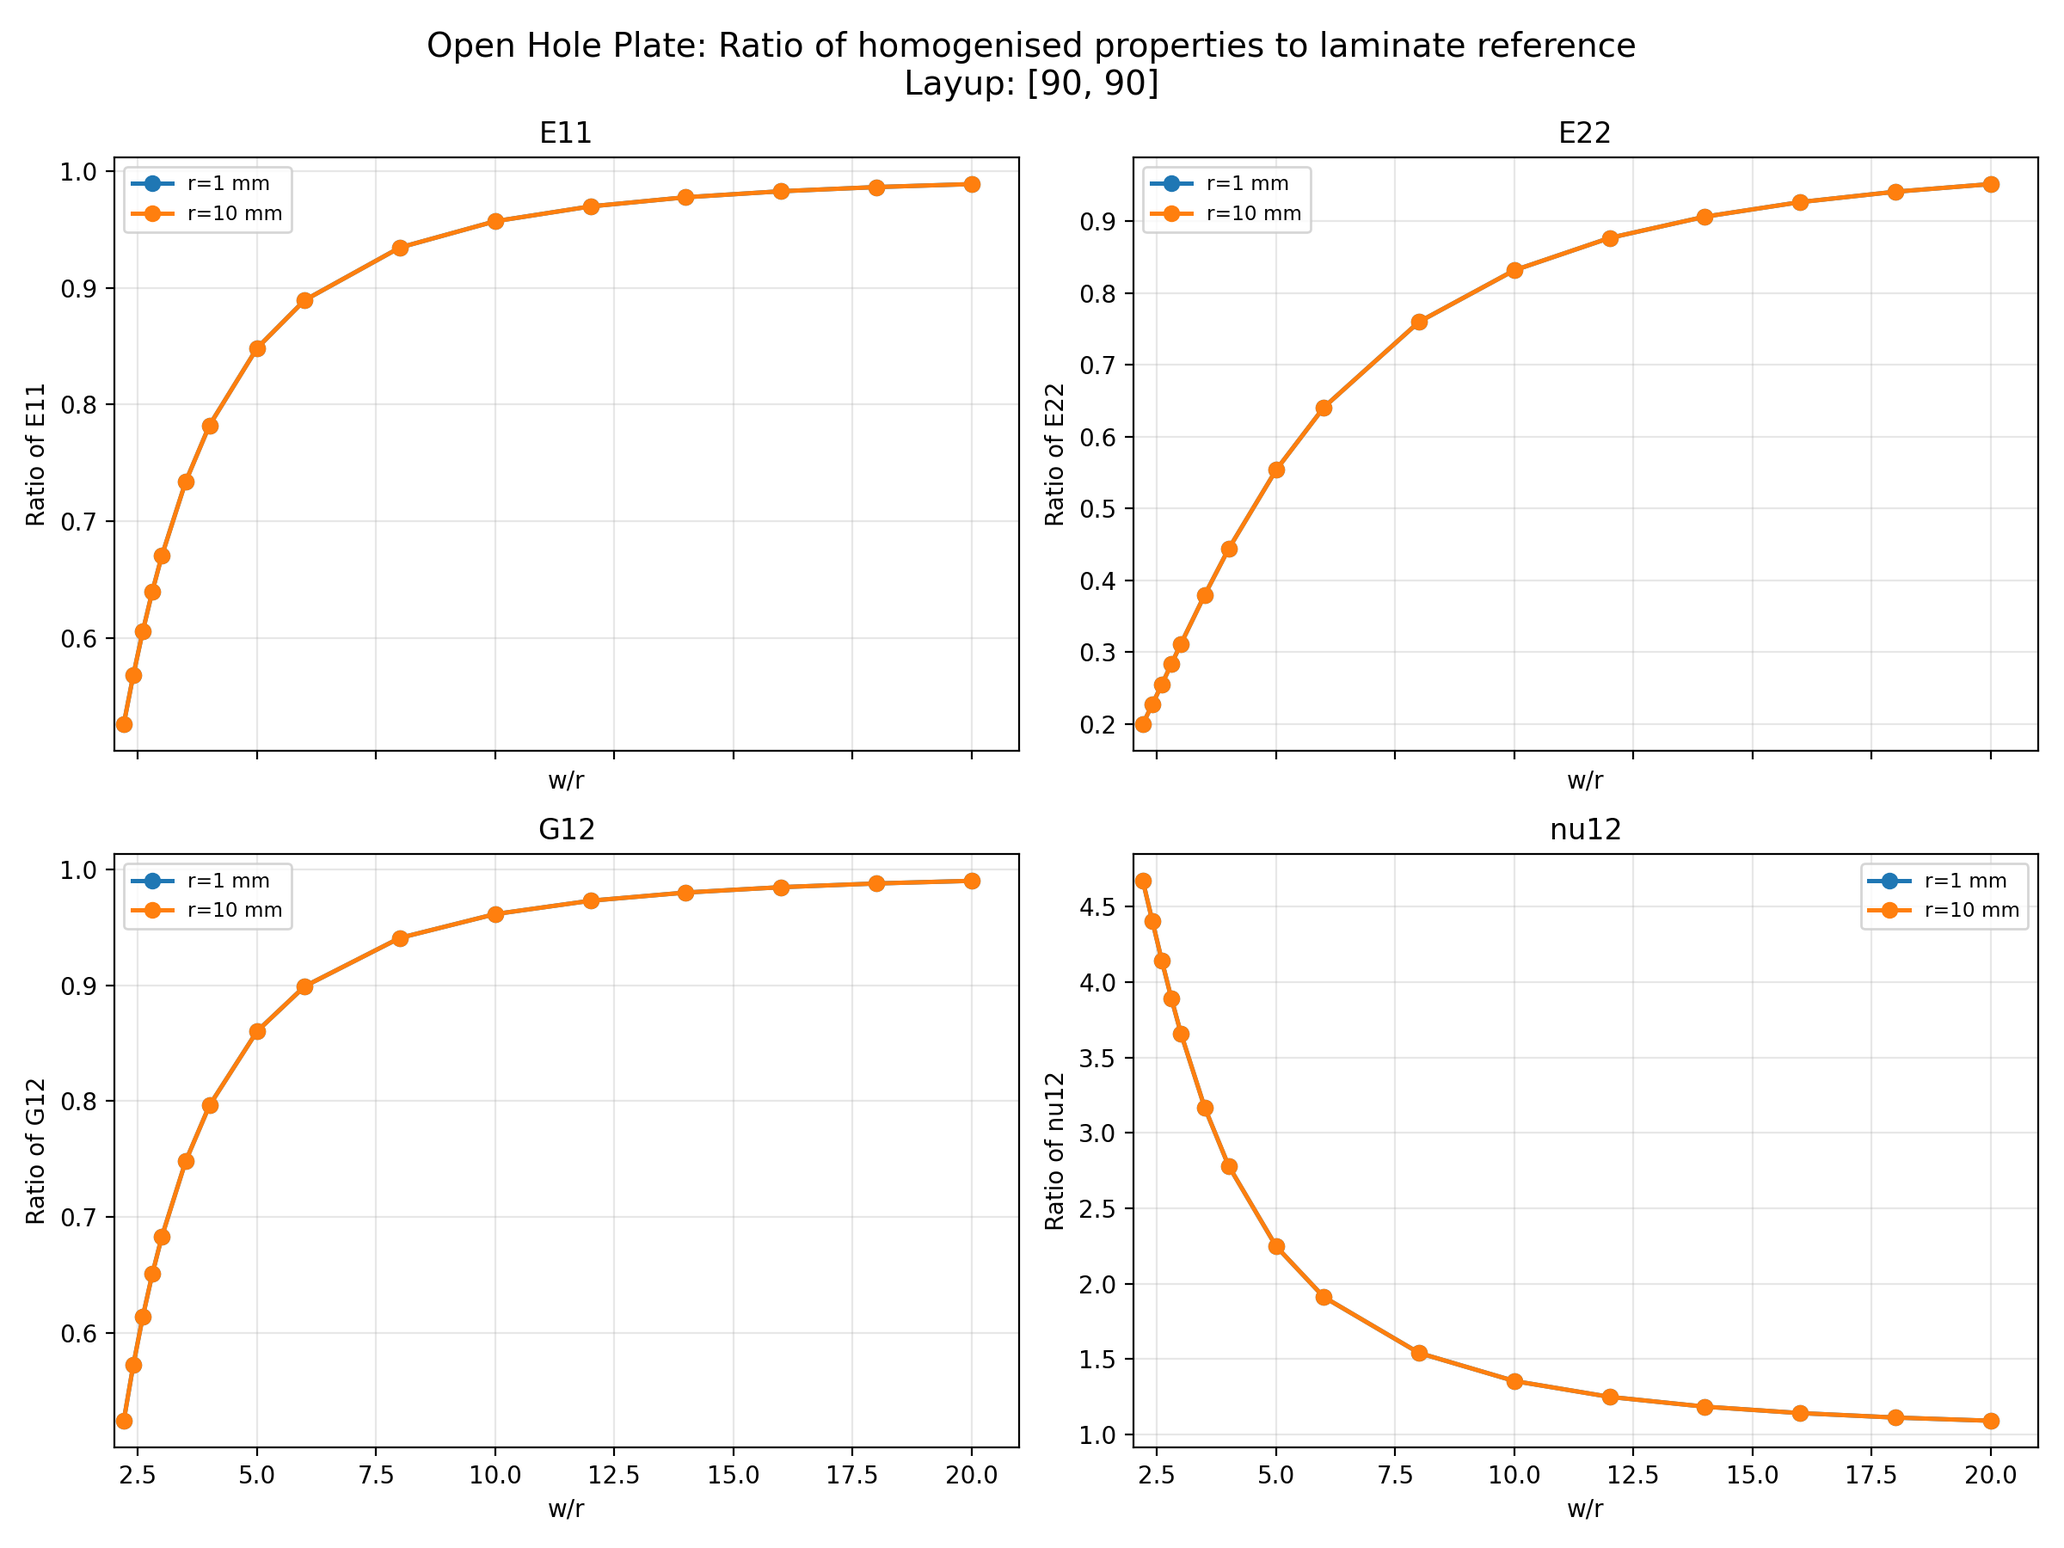
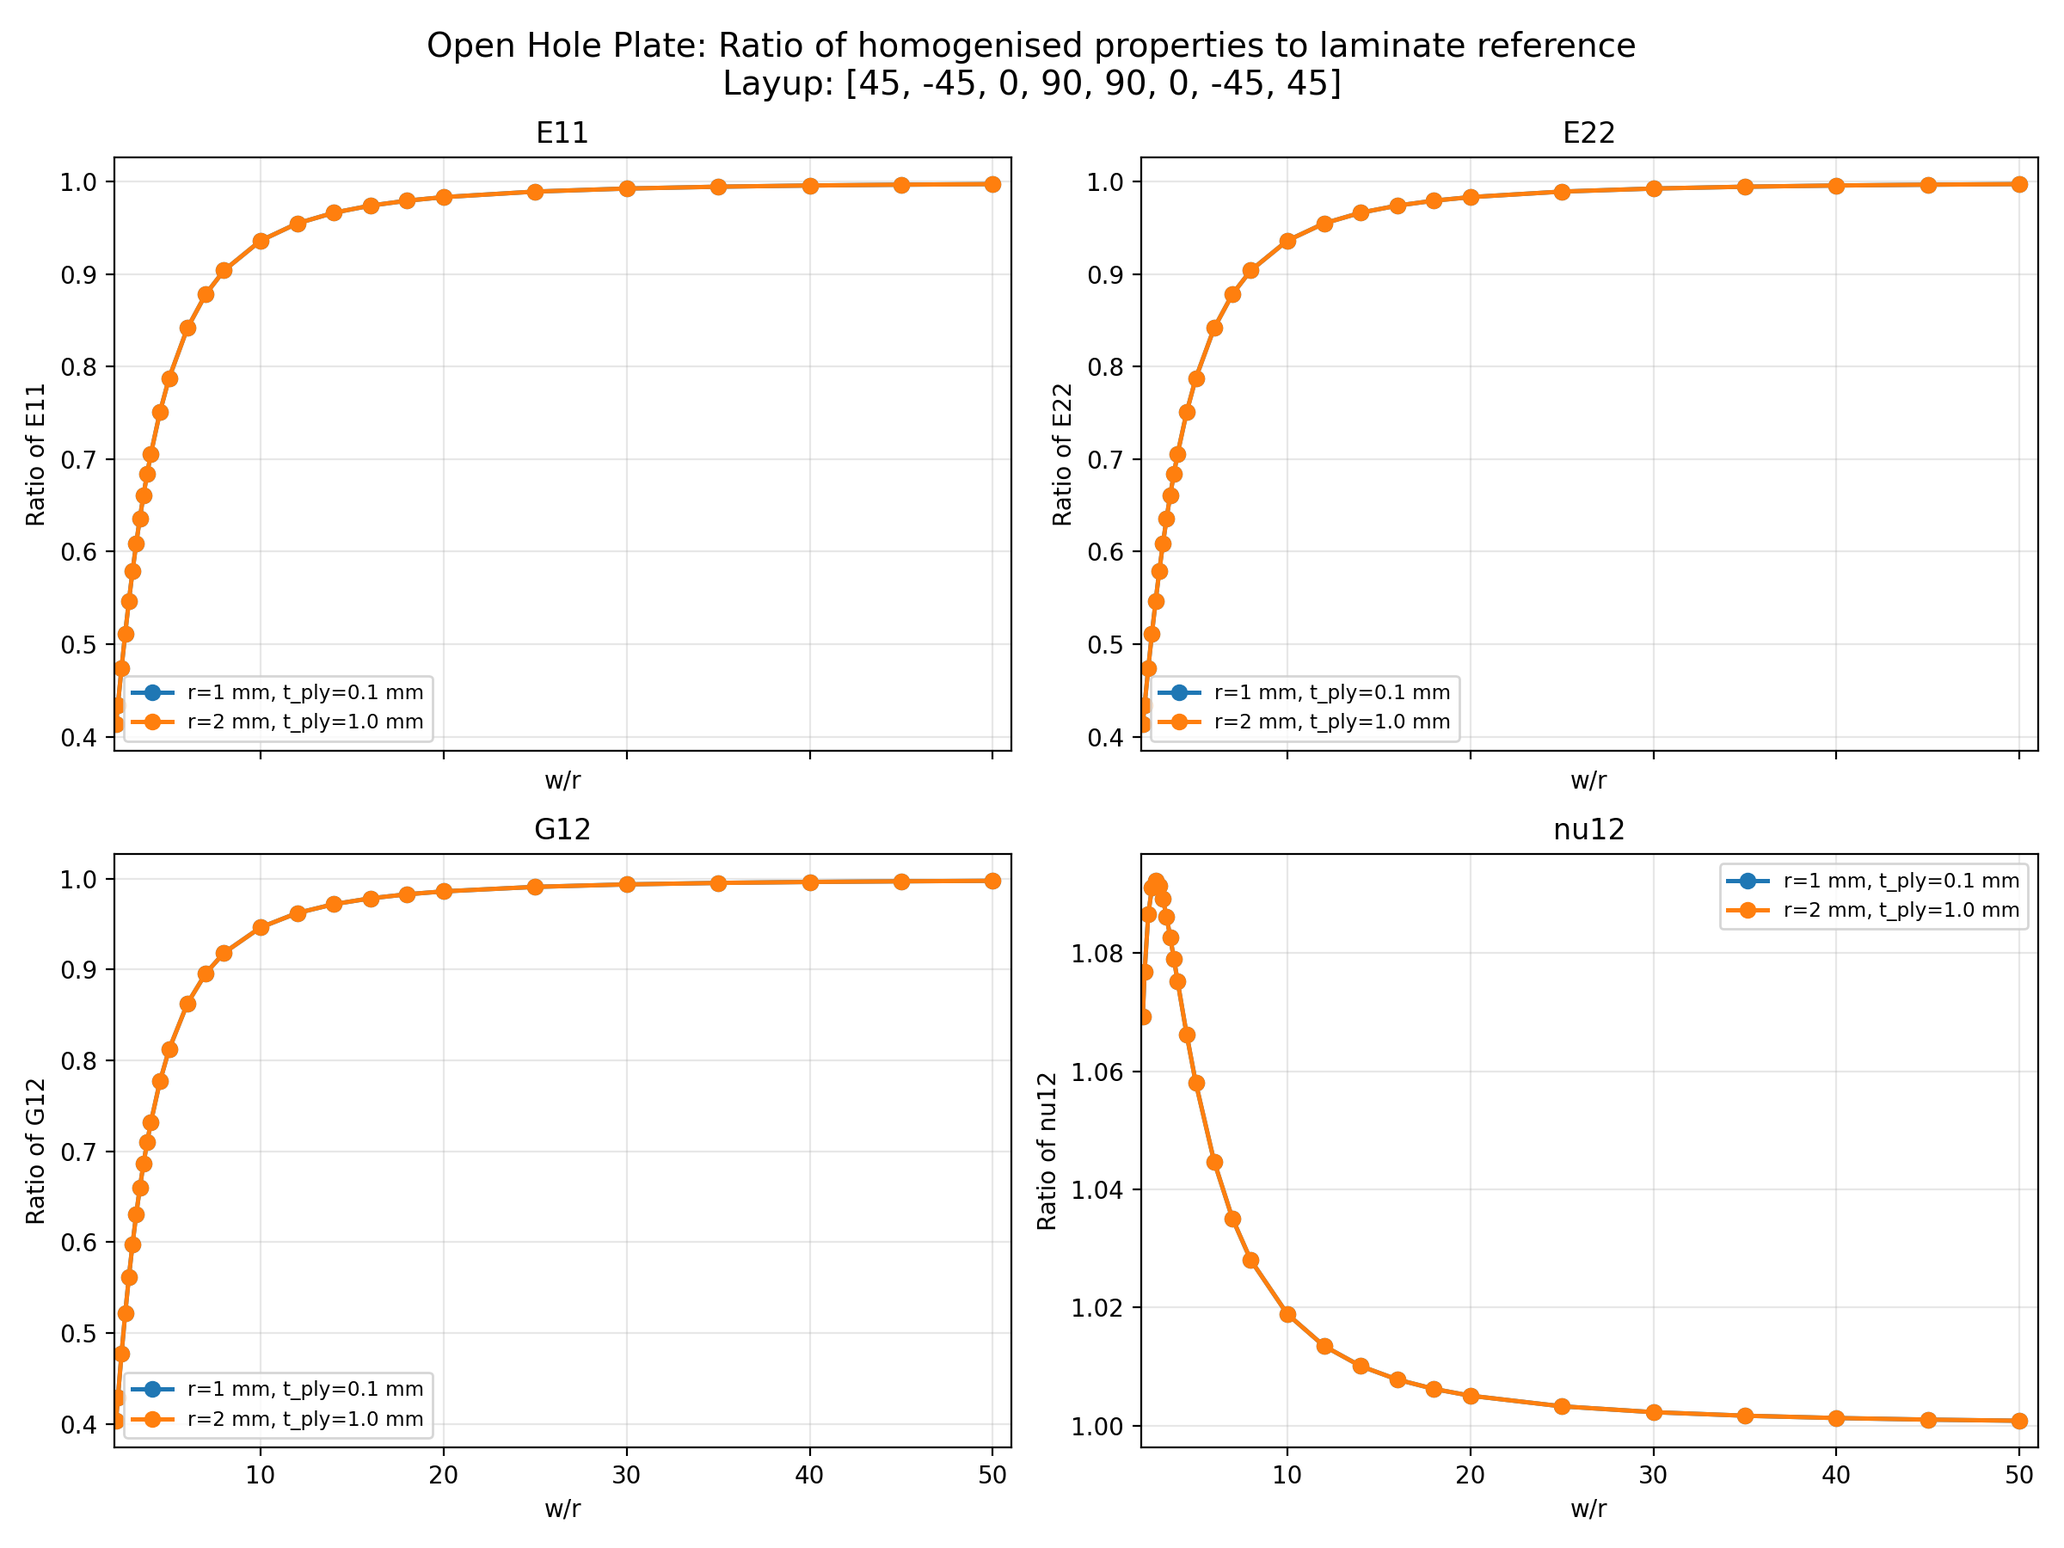
update example

diff --git a/example/4-effective-stiffness/example_effective_stiffness.py b/example/4-effective-stiffness/example_effective_stiffness.py
@@ -96,6 +96,10 @@ def calculate_effective_properties(laminate: Laminate,
         'A_eff': properties_eff['A_eff'],
         'S_lam': S_lam,
         'S_eff': properties_eff['S_eff'],
+        'disp_right_list': properties_eff['disp_right_list'],
+        'disp_left_list': properties_eff['disp_left_list'],
+        'disp_top_list': properties_eff['disp_top_list'],
+        'disp_bottom_list': properties_eff['disp_bottom_list'],
     }
     
     for key in ['E11', 'E22', 'G12', 'nu12']:
@@ -153,26 +157,30 @@ def print_comparison(results: Dict[str, Any]) -> None:
 def main() -> None:
     
     # Example laminate (quasi-isotropic).
+    layup = [0]
+    layup = [90]
+    layup = [45, -45, 0, 90, 90, 0, -45, 45]
     layup = [45, -45, 0, -45, 45, 0, 0, 90, 90, 0, 0, 45, -45, 0, -45, 45]
-    ply_thickness_mm = 0.125
-
-    ply = Ply(material=IM7_8551_7, thickness=ply_thickness_mm)
-    laminate = Laminate(stacking=layup, plies=ply)
 
     # Plot ratio curves of effective properties vs. laminate reference.
     #   {prop}_eff / {prop}_lam, where prop in [E11, E22, G12, nu12].
     properties = ["E11", "E22", "G12", "nu12"]
 
-    r_list = [1, 10]  # mm
-    w_r_ratios = [2.2, 2.4, 2.6, 2.8, 3.0, 3.5, 4, 5] + [i for i in range(6, 21, 2)]  # w/r ratio
+    case_list = [(1, 0.1), (2, 1.0)]  # (r_mm, ply_thickness_mm)
+    w_r_ratios = [2.1, 2.2, 2.4, 2.6, 2.8, 3.0, 3.2, 3.4, 3.6, 3.8, 4.0, 4.5,
+                  5, 6, 7, 8, 10, 12, 14, 16, 18, 20, 25, 30, 35, 40, 45, 50]  # w/r ratio
 
-    # ratios[prop][i_r, i_wr] = prop_eff / prop_lam
+    # ratios[prop][i_curve, i_wr] = prop_eff / prop_lam
     ratios: Dict[str, np.ndarray] = {
-        prop: np.zeros((len(r_list), len(w_r_ratios)), dtype=float)
+        prop: np.zeros((len(case_list), len(w_r_ratios)), dtype=float)
         for prop in properties
     }
 
-    for i_r, r_mm in enumerate(r_list):
+    for i_curve, (r_mm, ply_thickness_mm) in enumerate(case_list):
+        
+        ply = Ply(material=IM7_8551_7, thickness=ply_thickness_mm)
+        laminate = Laminate(stacking=layup, plies=ply)
+        
         for i_wr, w_r_ratio in enumerate(w_r_ratios):
             w_plate_mm = float(w_r_ratio) * float(r_mm)
 
@@ -189,26 +197,26 @@ def main() -> None:
             for prop in properties:
                 lam_val = float(results[f"{prop}_lam"])
                 eff_val = float(results[f"{prop}_eff"])
-                ratios[prop][i_r, i_wr] = eff_val / (lam_val + 1e-30)  # avoid division-by-zero
+                ratios[prop][i_curve, i_wr] = eff_val / (lam_val + 1e-30)  # avoid division-by-zero
 
     # --- Plot (2x2 subplots) ---
     fig, axes = plt.subplots(2, 2, figsize=(12, 9), sharex=True)
     axes_flat = axes.ravel()
 
     for ax, prop in zip(axes_flat, properties):
-        for i_r, r_mm in enumerate(r_list):
+        for i_curve, (r_mm, ply_thickness_mm) in enumerate(case_list):
             ax.plot(
                 w_r_ratios,
-                ratios[prop][i_r, :],
+                ratios[prop][i_curve, :],
                 marker="o",
                 linewidth=1.8,
-                label=f"r={r_mm} mm",
+                label=f"r={r_mm} mm, t_ply={ply_thickness_mm} mm",
             )
 
         ax.set_title(prop)
         ax.set_xlabel("w/r")
         ax.set_ylabel(f"Ratio of {prop}")
-        ax.set_xlim(2, 21)
+        ax.set_xlim(2, 51)
         ax.grid(True, alpha=0.3)
         ax.legend(fontsize="small")
 
@@ -221,9 +229,86 @@ def main() -> None:
 
     out_path = os.path.join(path, "images", "open_hole_homogenisation.png")
     fig.savefig(out_path, dpi=200)
-    print(f"Saved plot: {out_path}")
+    
+    # Plot ratio curves of displacements at the boundaries vs. laminate reference.
+    
+    w_r_ratios = [2.1, 2.5, 3, 5, 10]  # w/r ratio
+    r_mm = 1.0
+    colors = ['red', 'orange', 'green', 'blue', 'purple']
+    n_points_boundary = 101
+    magnitude_factor = 1e4
+    
+    ply = Ply(material=IM7_8551_7, thickness=1.0)
+    laminate = Laminate(stacking=layup, plies=ply)
+    
+    fig, axes = plt.subplots(1, 3, figsize=(12, 6), sharex=True)
+    axes_flat = axes.ravel()
 
+    for i_wr, w_r_ratio in enumerate(w_r_ratios):
+        
+        w_plate_mm = float(w_r_ratio) * float(r_mm)
+        coords = w_plate_mm*0.5*np.linspace(-1, 1, n_points_boundary)
 
+        results = calculate_effective_properties(
+            laminate=laminate,
+            lx_plate_mm=w_plate_mm,
+            ly_plate_mm=w_plate_mm,
+            hole_radius_mm=float(r_mm),
+            n_points_boundary=n_points_boundary,
+        )
+        
+        # Displacements (u,v) at the boundaries (right, left, top, bottom)
+        # for 3 unit stress states [sigma_xx_inf, sigma_yy_inf, tau_xy_inf].
+        disp_right_list = results['disp_right_list'] # [3][n_points_boundary, 2]
+        disp_left_list = results['disp_left_list']
+        disp_top_list = results['disp_top_list']
+        disp_bottom_list = results['disp_bottom_list']
+    
+        # Plot displacements: each stress state in one subplot.
+        for i_stress, stress_state in enumerate([r'$\sigma_{xx}^{\infty}$', r'$\sigma_{yy}^{\infty}$', r'$\tau_{xy}^{\infty}$']):
+            
+            if i_wr == 0:
+                axes_flat[i_stress].add_patch(plt.Circle((0, 0), r_mm, color='black', linewidth=1.8, fill=False))
+            
+            axes_flat[i_stress].plot(-0.5*w_plate_mm+disp_left_list[i_stress][:, 0]*magnitude_factor,
+                                    coords+disp_left_list[i_stress][:, 1]*magnitude_factor,
+                                    color=colors[i_wr], linewidth=1.0)
+
+            axes_flat[i_stress].plot( 0.5*w_plate_mm+disp_right_list[i_stress][:, 0]*magnitude_factor,
+                                    coords+disp_right_list[i_stress][:, 1]*magnitude_factor,
+                                    color=colors[i_wr], linewidth=1.0)
+
+            axes_flat[i_stress].plot(coords+disp_bottom_list[i_stress][:, 0]*magnitude_factor, 
+                                    -0.5*w_plate_mm+disp_bottom_list[i_stress][:, 1]*magnitude_factor, 
+                                    color=colors[i_wr], linewidth=1.0)
+
+            axes_flat[i_stress].plot(coords+disp_top_list[i_stress][:, 0]*magnitude_factor,
+                                    0.5*w_plate_mm+disp_top_list[i_stress][:, 1]*magnitude_factor, 
+                                    color=colors[i_wr], linewidth=1.0,
+                                    label=f"w/r={w_r_ratio:.1f}")
+            
+            if i_wr == len(w_r_ratios) - 1:
+                
+                axes_flat[i_stress].set_xlabel('x')
+                axes_flat[i_stress].set_ylabel('y')
+                axes_flat[i_stress].set_title(stress_state)
+                axes_flat[i_stress].grid(True, alpha=0.3)
+                
+                axes_flat[i_stress].set_xlim(-0.8*w_plate_mm, 0.8*w_plate_mm)
+                axes_flat[i_stress].set_ylim(-0.8*w_plate_mm, 0.8*w_plate_mm)
+                axes_flat[i_stress].axis('equal')
+                axes_flat[i_stress].legend(fontsize="small")
+
+    fig.suptitle(
+        f"Open Hole Plate: Displacements at the boundaries\n"+ \
+        f"Layup: {layup}\n"+ \
+        f"Magnify factor: {magnitude_factor:.1e}",
+        fontsize=14,
+    )
+    fig.tight_layout(rect=[0, 0, 1, 1])
+
+    out_path = os.path.join(path, "images", "open_hole_displacements.png")
+    fig.savefig(out_path, dpi=200)
 
 
 if __name__ == "__main__":

diff --git a/src/lamkit/lekhnitskii/homogenisation.py b/src/lamkit/lekhnitskii/homogenisation.py
@@ -4,13 +4,13 @@ Homogenisation of a plate with a circular hole.
 
 
 import numpy as np
-from typing import Dict, Type, Any
+from typing import Dict, Type, Any, List
 from lamkit.lekhnitskii.hole import Hole
 from lamkit.lekhnitskii.unloaded_hole import UnloadedHole
 
 
 def compute_effective_strains(solution: Hole,
-                L: float, H: float, n_points_boundary: int = 301) -> np.ndarray:
+                L: float, H: float, n_points_boundary: int = 301) -> Dict[str, np.ndarray]:
     """
     Compute effective strains from boundary displacements.
     The plate is treated as a square domain:
@@ -30,8 +30,14 @@ def compute_effective_strains(solution: Hole,
 
     Returns
     -------
-    effective_strains: np.ndarray, shape (3,)
-        [epsilon_x, epsilon_y, gamma_xy] (engineering gamma_xy).
+    results: Dict[str, np.ndarray]
+        The results of the effective strains.
+        - 'effective_strains': [epsilon_x, epsilon_y, gamma_xy] (engineering gamma_xy).
+        - 'displacement_right': np.ndarray, shape (n_points_boundary, 2)
+        - 'displacement_left': np.ndarray, shape (n_points_boundary, 2)
+        - 'displacement_top': np.ndarray, shape (n_points_boundary, 2)
+        - 'displacement_bottom': np.ndarray, shape (n_points_boundary, 2)
+        
     """
     if n_points_boundary < 3:
         raise ValueError("n_points_boundary must be >= 3")
@@ -74,21 +80,23 @@ def compute_effective_strains(solution: Hole,
 
     # --- gamma_xy_bar = (1/(L*H)) [ ∫ (u(x,H)-u(x,0)) dx + ∫ (v(L,y)-v(0,y)) dy ] ---
     # Our coordinates: H => y_top, 0 => y_bottom; L => x_right, 0 => x_left.
-    disp_u_t = np.asarray(solution.displacement(x, y_t), dtype=float)
-    disp_u_b = np.asarray(solution.displacement(x, y_b), dtype=float)
-    u_t = disp_u_t[:, 0]
-    u_b = disp_u_b[:, 0]
+    u_t = disp_t[:, 0]
+    u_b = disp_b[:, 0]
     term1 = float(np.trapz(u_t - u_b, x))
 
-    disp_v_r = np.asarray(solution.displacement(x_r, y), dtype=float)
-    disp_v_l = np.asarray(solution.displacement(x_l, y), dtype=float)
-    v_r = disp_v_r[:, 1]
-    v_l = disp_v_l[:, 1]
+    v_r = disp_r[:, 1]
+    v_l = disp_l[:, 1]
     term2 = float(np.trapz(v_r - v_l, y))
 
     gamma_xy_bar = (term1 + term2) / (L * H)
 
-    return np.array([epsilon_xx_bar, epsilon_yy_bar, gamma_xy_bar], dtype=float)
+    return {
+        'effective_strains': np.array([epsilon_xx_bar, epsilon_yy_bar, gamma_xy_bar], dtype=float),
+        'displacement_right': disp_r,
+        'displacement_left': disp_l,
+        'displacement_top': disp_t,
+        'displacement_bottom': disp_b,
+    }
 
 
 def compute_permutation_invariants(E11: float, E22: float,
@@ -160,12 +168,18 @@ def compute_homogenised_properties(HoleType: Type[Hole],
     Returns
     -------
     homogenised_properties: Dict[str, Any]
-        The homogenised properties of the plate.
-        Keys: 'A_eff', 'S_eff', 'E11_eff', 'E22_eff', 'G12_eff', 'nu12_eff', 'nu21_eff'.
+        The homogenised properties of the plate, and displacements at the boundaries.
+        - 'A_eff', 'S_eff'
+        - 'E11_eff', 'E22_eff', 'G12_eff', 'nu12_eff', 'nu21_eff'
+        - 'disp_right_list', 'disp_left_list', 'disp_top_list', 'disp_bottom_list'
     '''
 
     unit_stress_vectors = np.eye(3)
-    eps_cols: list[np.ndarray] = []
+    eps_cols: List[np.ndarray] = []
+    disp_right_list: List[np.ndarray] = []
+    disp_left_list: List[np.ndarray] = []
+    disp_top_list: List[np.ndarray] = []
+    disp_bottom_list: List[np.ndarray] = []
     
     for (sx_inf, sy_inf, txy_inf) in unit_stress_vectors:
 
@@ -180,9 +194,13 @@ def compute_homogenised_properties(HoleType: Type[Hole],
         else:
             raise ValueError(f"HoleType {HoleType} not supported")
 
-        eps_eff = compute_effective_strains(
+        results_eff = compute_effective_strains(
             solution=solution, L=L, H=H, n_points_boundary=n_points_boundary)
-        eps_cols.append(eps_eff)
+        eps_cols.append(results_eff['effective_strains'])
+        disp_right_list.append(results_eff['displacement_right'])
+        disp_left_list.append(results_eff['displacement_left'])
+        disp_top_list.append(results_eff['displacement_top'])
+        disp_bottom_list.append(results_eff['displacement_bottom'])
 
     # epsilon = S_eff @ sigma_inf, with sigma_inf ordering [sx, sy, txy]
     # No further scaling by thickness is needed for `S_eff`,
@@ -210,6 +228,10 @@ def compute_homogenised_properties(HoleType: Type[Hole],
         'G12_eff': G12_eff,
         'nu12_eff': nu12_eff,
         'nu21_eff': nu21_eff,
+        'disp_right_list': disp_right_list,
+        'disp_left_list': disp_left_list,
+        'disp_top_list': disp_top_list,
+        'disp_bottom_list': disp_bottom_list,
     }
 
     return results

diff --git a/example/6-laminate-optimization-task/example_laminate_opt_function.py b/example/6-laminate-optimization-task/example_laminate_opt_function.py
@@ -141,10 +141,14 @@ def evaluate_laminate_design(
     eigvals, _ = buckling.buckling_analysis(num_eigvalues=5)
     lambda_cr = float(np.min(eigvals))
 
-    objective = float(total_thickness)
+    objective = float(total_thickness) * (1 - np.pi * hole_radius_mm**2 / (w_mm * h_mm))
     g_disp = max_abs_u - delta_x_limit_mm
     g_fi = fi_max - fi_limit
     g_buckle = lambda_min_limit - lambda_cr
+
+    int_layup = [int(angle) for angle in layup]
+    n_0 = int_layup.count(0)
+    n_90 = int_layup.count(90)
 
     t1 = time.time()
 
@@ -153,6 +157,15 @@ def evaluate_laminate_design(
         "objective": objective,
         "total_thickness": total_thickness,
         "n_ply": n_ply,
+        "n_0": n_0,
+        "n_90": n_90,
+        "xiA": np.round(laminate.xiA, 6).tolist(),
+        "xiB": np.round(laminate.xiB, 6).tolist(),
+        "xiD": np.round(laminate.xiD, 6).tolist(),
+        "E11_eff": properties_eff['E11_eff'],
+        "E22_eff": properties_eff['E22_eff'],
+        "G12_eff": properties_eff['G12_eff'],
+        "nu12_eff": properties_eff['nu12_eff'],
         "max_abs_u_mm": max_abs_u,
         "FI_max": fi_max,
         "lambda_cr": lambda_cr,
@@ -184,9 +197,23 @@ def main() -> None:
     lines = [
         "Laminate optimization function example",
         "====================================",
+        "",
+        "Layup parameters:",
         f"Layup (deg): {result['layup_deg']}",
         f"Number of plies: {len(result['layup_deg'])}",
-        f"Objective (min total thickness): {result['objective']:.3f}",
+        f"Number of 0-degree plies:  {result['n_0']}",
+        f"Number of 90-degree plies: {result['n_90']}",
+        f"xiA: {result['xiA']}",
+        f"xiB: {result['xiB']}",
+        f"xiD: {result['xiD']}",
+        "",
+        "Effective properties:",
+        f"  E11_eff:  {result['E11_eff']:.3f}",
+        f"  E22_eff:  {result['E22_eff']:.3f}",
+        f"  G12_eff:  {result['G12_eff']:.3f}",
+        f"  nu12_eff: {result['nu12_eff']:.3f}",
+        "",
+        f"Objective (min weight): {result['objective']:.3f}",
         "",
         "Computed responses:",
         f"  max|u_x|  [mm] = {result['max_abs_u_mm']:.6f}",

diff --git a/src/lamkit/components/build_layup_database.py b/src/lamkit/components/build_layup_database.py
@@ -208,7 +208,7 @@ def build_or_extend_layup_database(
 
     source_path = old_database_path if old_database_path is not None else dataset_path
     current_df = load_layup_database(source_path)
-    existing_n_ply = set(current_df["n_ply"].astype(int).unique()) if not current_df.empty else set()
+    existing_n_ply = {int(n) for n in current_df["n_ply"].unique()} if not current_df.empty else set()
     missing_n_ply = [n for n in n_ply_values if n not in existing_n_ply]
     
     if not current_df.empty:
